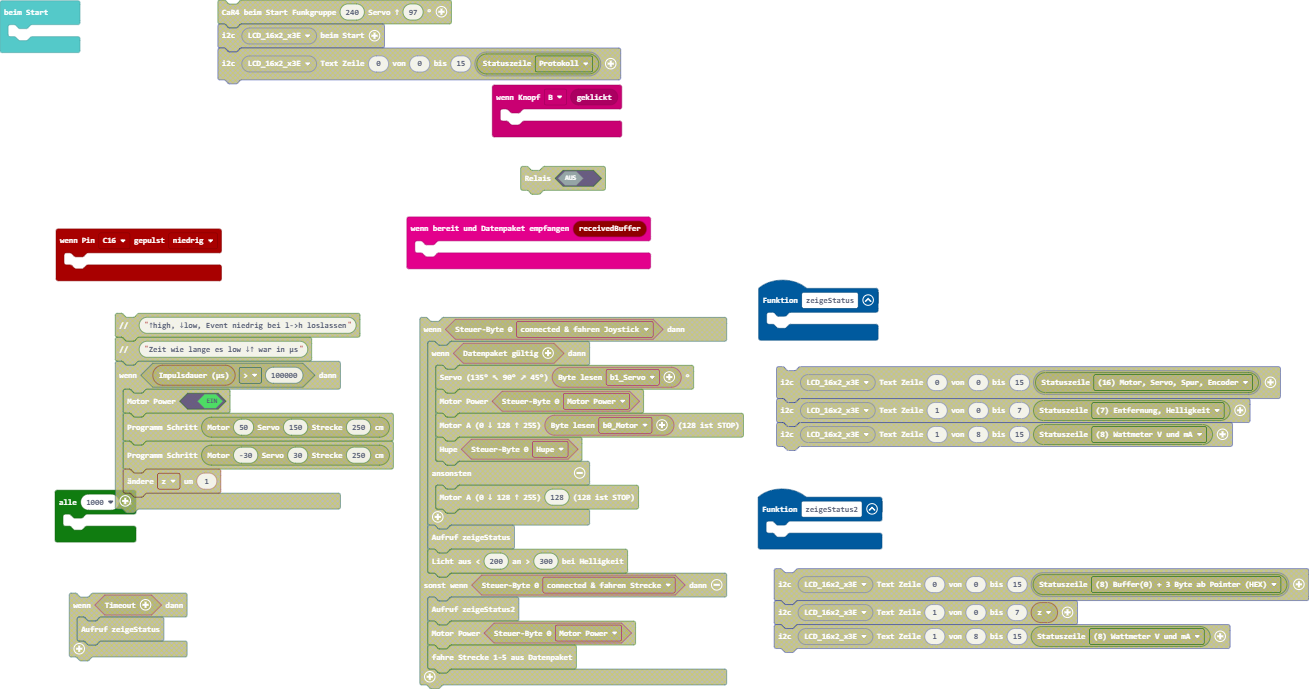
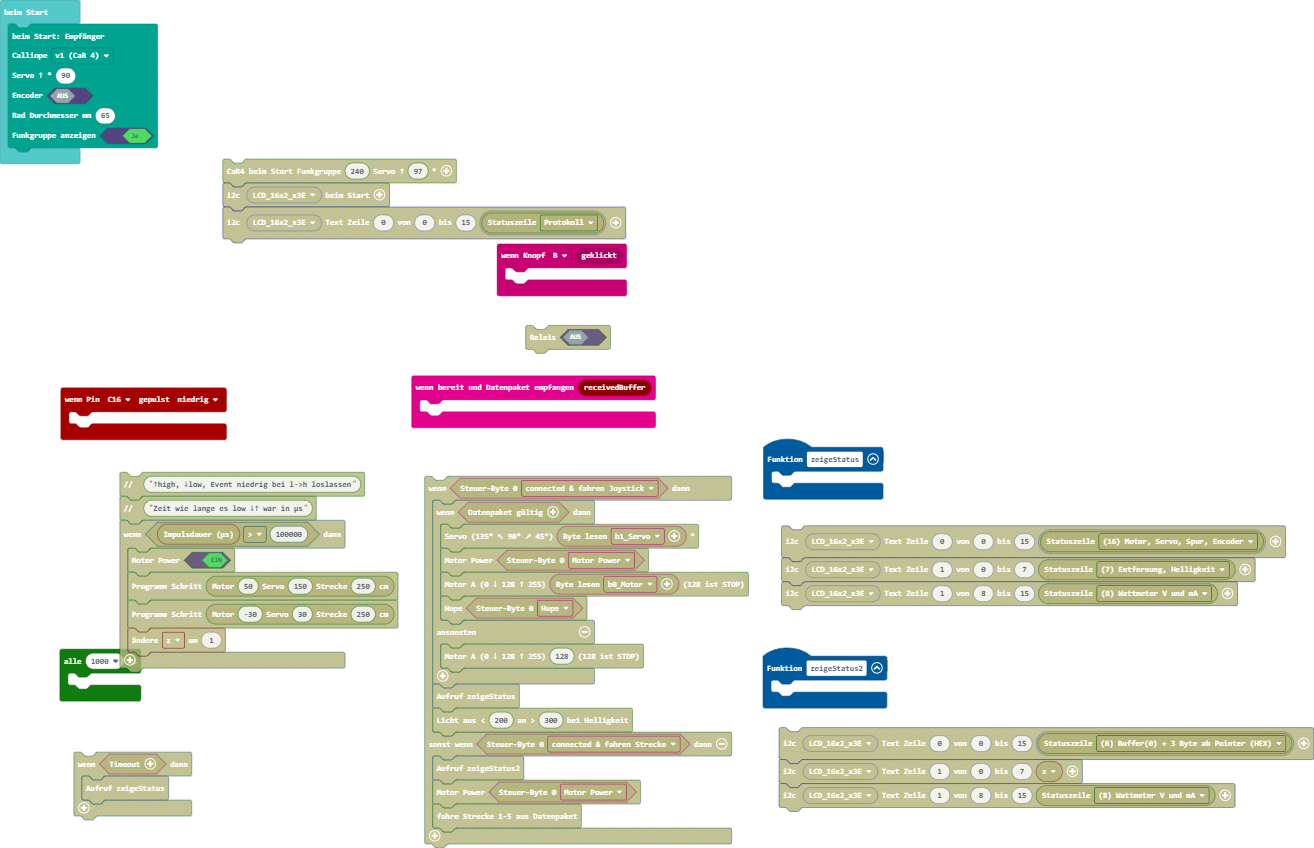
Aktualisiere pxt.json, main.blocks, main.ts

diff --git a/main.ts b/main.ts
@@ -13,6 +13,13 @@ function zeigeStatus2 () {
 pins.onPulsed(DigitalPin.C16, PulseValue.Low, function () {
 	
 })
+receiver.beimStart(
+receiver.eHardware.car4,
+90,
+false,
+65,
+true
+)
 loops.everyInterval(1000, function () {
 	
 })
